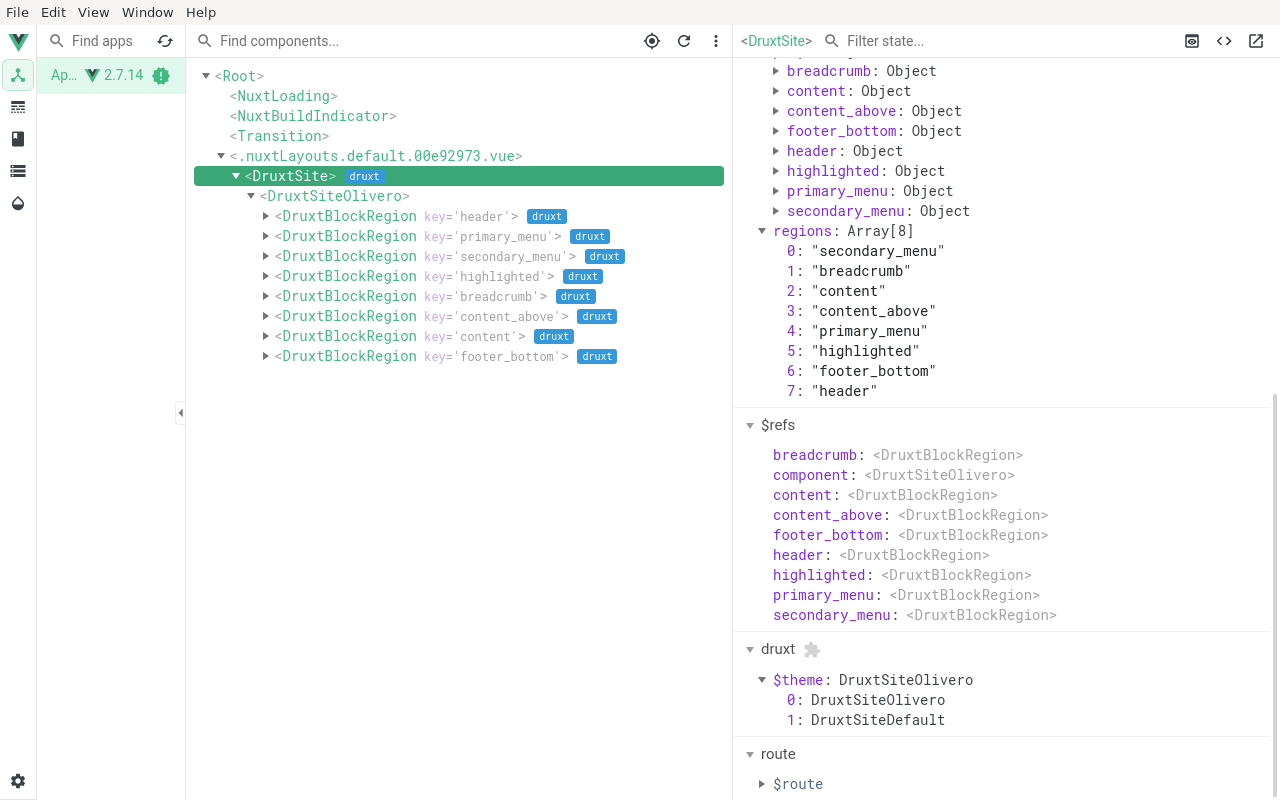
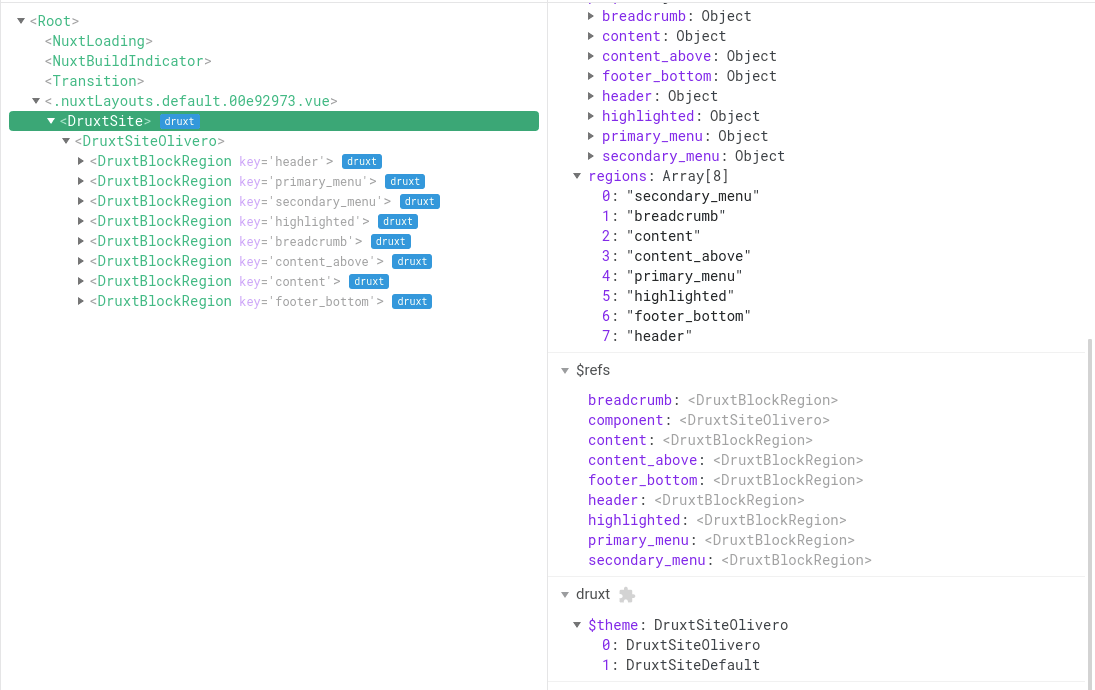
docs(site): crop devtools screenshots to their distinct subjects

diff --git a/docs/nuxt/scripts/capture-devtools.md b/docs/nuxt/scripts/capture-devtools.md
@@ -42,4 +42,18 @@ backend running.
    - `devtools-inspector.png`: open the DruxtJS inspector (the droplet
      icon in the left rail), select Connection details.
 
-4. Optimize with `pngquant --quality 65-90` and revert the config edit.
+4. Crop each capture to its subject so the three images stay small and
+   visually distinct (geometries assume the 1280x800 window at the
+   origin):
+
+   ```sh
+   convert devtools-theme.png -crop 1095x690+185+55 +repage devtools-theme.png
+   convert devtools-scaffold.png -crop 547x142+733+628 +repage devtools-scaffold.png
+   convert devtools-inspector.png -crop 1280x235+0+25 +repage devtools-inspector.png
+   ```
+
+   Theme keeps the component tree and full state pane, scaffold is just
+   the `$theme` list with the save action, inspector is the top strip
+   with the rail, node list and connection details.
+
+5. Optimize with `pngquant --quality 65-90` and revert the config edit.
